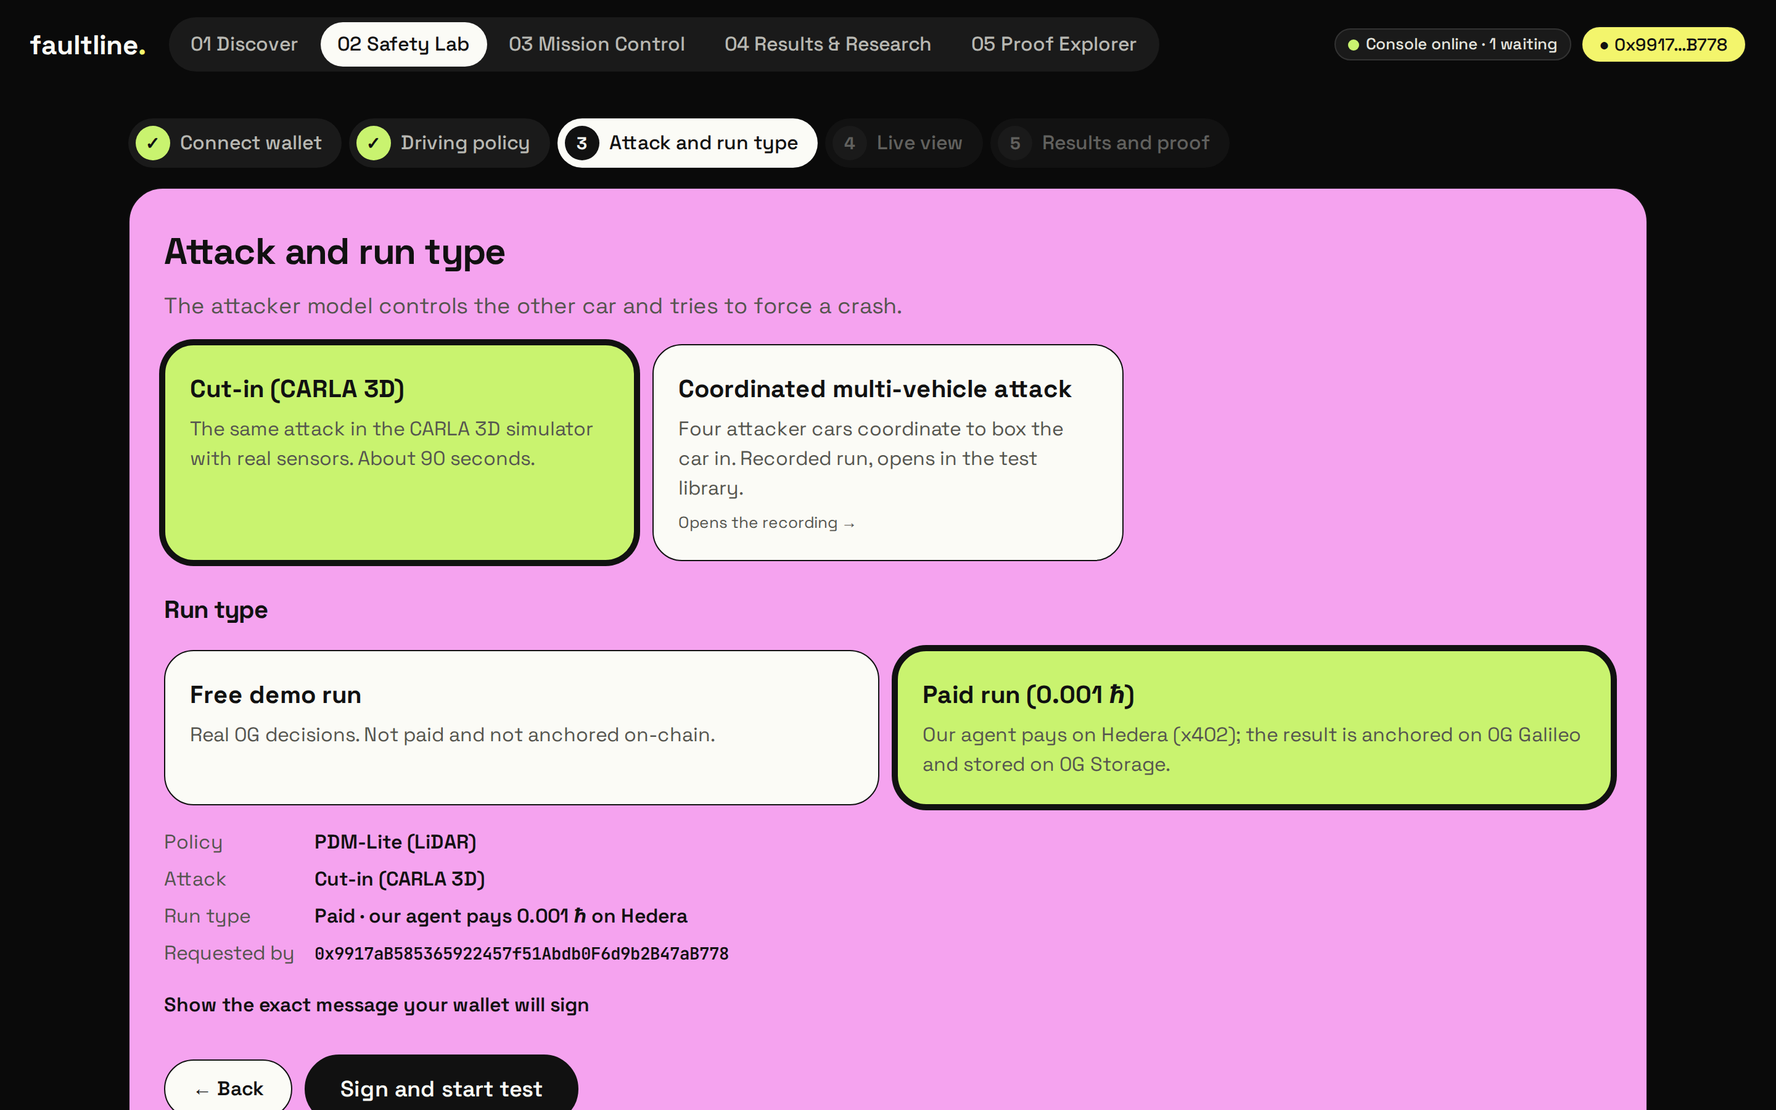
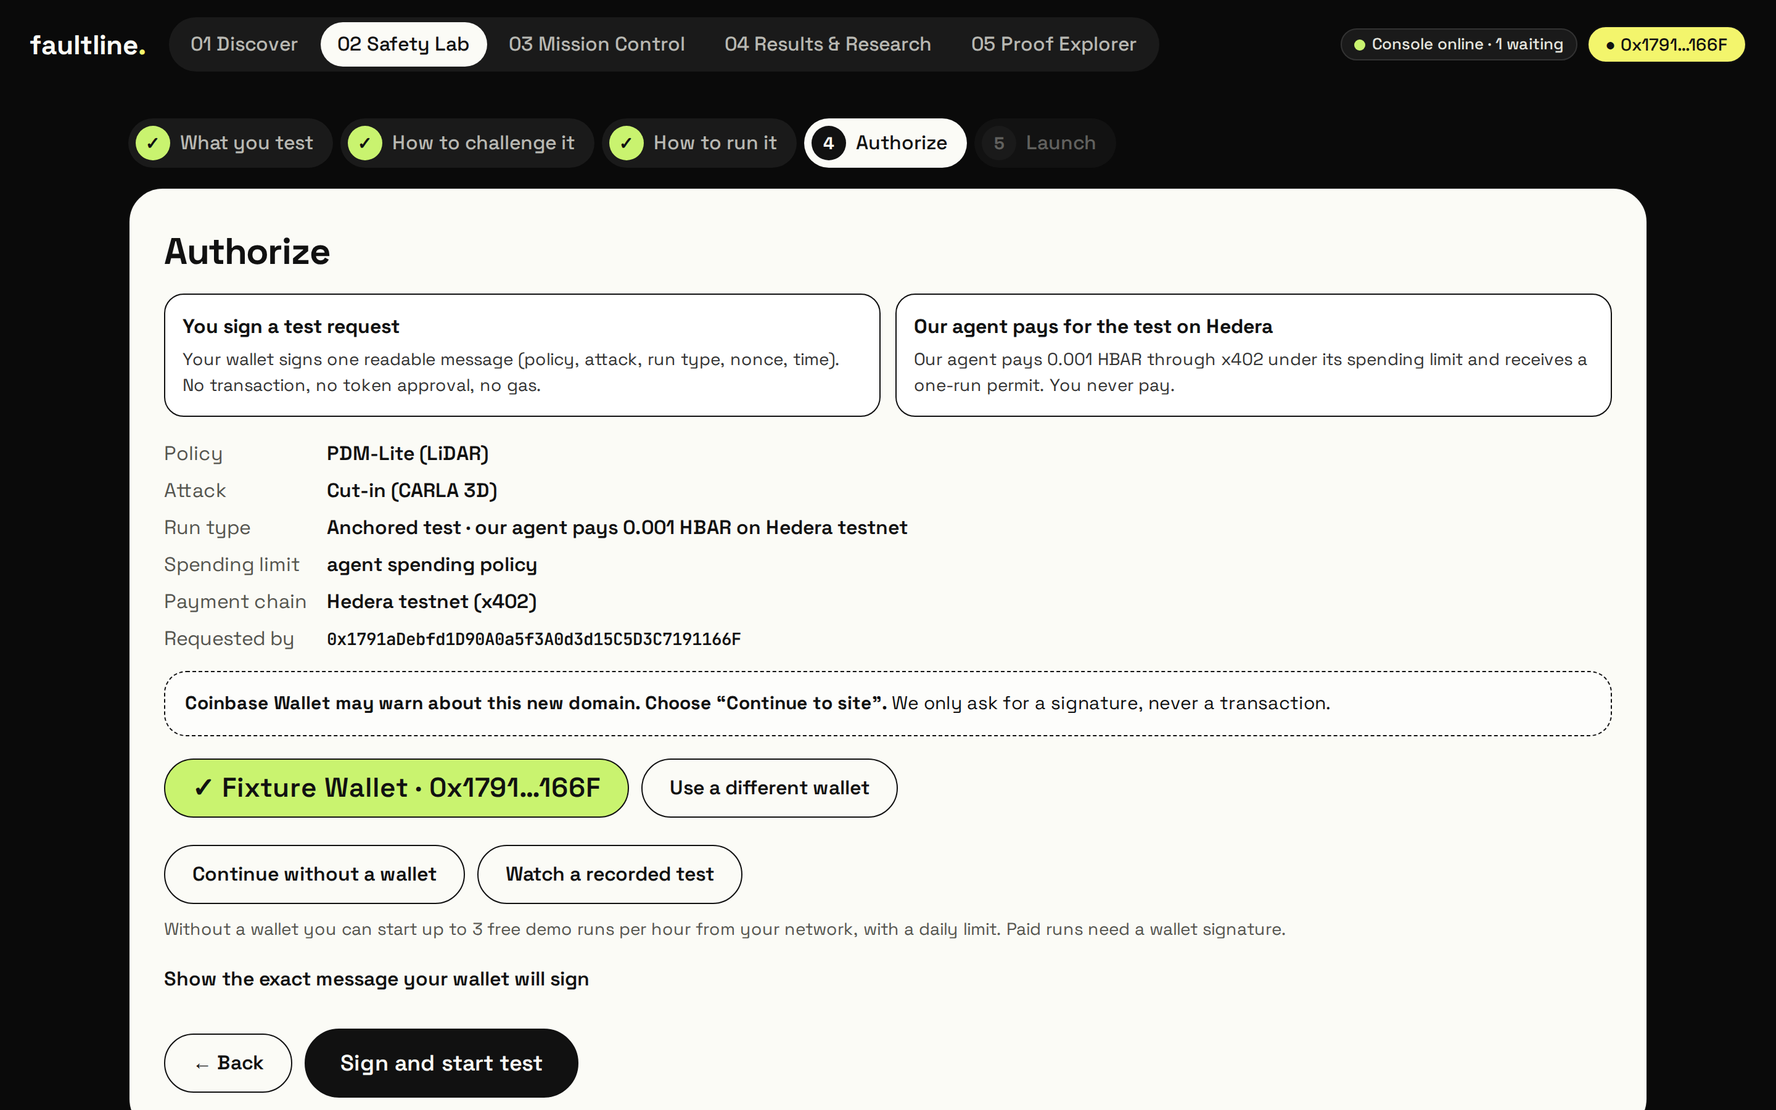
studio: Safety Lab reordered (what you test, how to challenge it, how to run it with a CARLA check, authorize: you sign vs our agent pays), paid-but-unstarted recovery

diff --git a/apps/faultline-studio/src/main.ts b/apps/faultline-studio/src/main.ts
@@ -136,12 +136,11 @@ async function connect(w: { info: WalletInfo, provider: Eip1193 }) {
 }
 function paintWallet() {
   $('wallet-btn').textContent = wallet ? `● ${short(wallet.address, 6, 4)}` : 'Connect wallet'
-  $<HTMLButtonElement>('s1-next').disabled = !wallet && !guest
   $('guest').textContent = guest ? '✓ Continuing without a wallet' : 'Continue without a wallet'
   renderStepper(); renderSummary()
 }
 $('wallet-btn').addEventListener('click', () => {
-  go('/lab'); step(1)
+  go('/lab'); step(4)
   const c = candidates()
   if (!wallet && c.length === 1) connect(c[0]) // still inside the click: the wallet popup needs a user gesture
 })
@@ -150,10 +149,10 @@ const message = (nonce: string, issued: string) => `Faultline test request\npoli
 
 // ---------- guided flow ----------
 let cur = 1, maxStep = 1
-const STEPS = ['Connect wallet', 'Driving policy', 'Attack and run type', 'Live view', 'Results and proof']
+const STEPS = ['What you test', 'How to challenge it', 'How to run it', 'Authorize', 'Launch']
 function renderStepper() {
   $('stepper').innerHTML = STEPS.map((t, i) => {
-    const n = i + 1, can = n <= maxStep && (n < 2 || !!wallet || guest || n >= 4)
+    const n = i + 1, can = n <= maxStep && n <= 4
     return `<li><button class="${n === cur ? 'on' : ''} ${n < maxStep && n !== cur ? 'done' : ''}" data-s="${n}" ${can ? '' : 'disabled'} ${n === cur ? 'aria-current="step"' : ''}><i>${n < maxStep && n !== cur ? '✓' : n}</i><span>${t}</span></button></li>`
   }).join('')
   $('stepper').querySelectorAll<HTMLButtonElement>('[data-s]').forEach((b) => b.addEventListener('click', () => step(Number(b.dataset.s))))
@@ -162,13 +161,13 @@ function step(n: number) {
   if (n < 1) { go('/'); return }
   cur = n; maxStep = Math.max(maxStep, n); save()
   if (location.pathname !== '/lab') history.replaceState(null, '', '/lab')
-  for (let i = 1; i <= 5; i++) $(`s${i}`).classList.toggle('hidden', i !== n)
-  renderStepper(); if (n === 3) renderSummary()
+  for (let i = 1; i <= 4; i++) $(`s${i}`).classList.toggle('hidden', i !== n)
+  renderStepper(); if (n === 4) { renderSummary(); loadPending() }
   window.scrollTo({ top: 0 }); requestAnimationFrame(resizeAll)
 }
 $('s1-next').addEventListener('click', () => step(2))
 $('s2-next').addEventListener('click', () => step(3))
-$('again').addEventListener('click', () => step(2))
+$('s3-next').addEventListener('click', () => { if (mode === 'replay') { go('/library'); return } step(4) })
 
 // Swarm roles: one source, the run's plan.json via /api/showcase (fallback = the same plan text)
 let ROLES: Record<string, string> = { A: 'Lead vehicle, progressive braking', B: 'Front cut-in, block right lane', C: 'Rear cut-in, compress gap', D: 'Rear guard, maintain safe distance' }
@@ -186,12 +185,12 @@ let policies: Policy[] = [
[1 lines of base64/hex data omitted]
   { id: 'idm-cautious', name: 'Cautious IDM', description: '', digest: null, compatible: true, paid: false },
 ]
-let policy = 'pdm-lite', attack = 'cut-in-v1-carla', mode: 'free' | 'paid' = 'free', guest = false
+let policy = 'pdm-lite', attack = 'cut-in-v1-carla', mode: 'free' | 'paid' | 'replay' = 'free', guest = false
 // The flow survives a reload or a wallet warning page: state is saved on every change and restored on load.
 const FKEY = 'faultline.flow'
-function save() { try { localStorage.setItem(FKEY, JSON.stringify({ step: Math.min(cur, 3), policy, attack, mode, guest, wallet: lastTried?.info.rdns ?? null })) } catch { /* private mode */ } }
+function save() { try { localStorage.setItem(FKEY, JSON.stringify({ step: Math.min(cur, 4), policy, attack, mode, guest, wallet: lastTried?.info.rdns ?? null })) } catch { /* private mode */ } }
 function restore(): any { try { return JSON.parse(localStorage.getItem(FKEY) ?? 'null') } catch { return null } }
-$('guest').addEventListener('click', () => { guest = true; wallet = null; mode = 'free'; save(); renderWallets(); paintWallet(); renderChoices(); step(2) })
+$('guest').addEventListener('click', () => { guest = true; wallet = null; mode = 'free'; save(); renderWallets(); paintWallet(); renderChoices(); renderSummary() })
 $('byo').addEventListener('click', () => show('stack'))
 // ---------- your stack: tabs, copy buttons, onboarding request (copied to the clipboard; nothing is sent or stored) ----------
 document.querySelectorAll<HTMLButtonElement>('[data-tab]').forEach((b) => b.addEventListener('click', () => {
@@ -212,7 +211,8 @@ async function loadPolicies() {
 }
 const ATTACKS = [
   { id: 'cut-in-v1-carla', name: 'Cut-in (CARLA 3D)', line: 'The same attack in the CARLA 3D simulator with real sensors. About 90 seconds.', live: true },
-  { id: 'swarm', name: 'Coordinated multi-vehicle attack', line: 'Four attacker cars coordinate to box the car in. Recorded run, opens in the test library.', live: false },
+  { id: 'swarm', name: 'Coordinated multi-vehicle attack', line: 'Four attacker cars coordinate to box the car in. Recorded only, opens in the test library.', live: false },
+  { id: 'lead-brake', name: 'Lead vehicle brakes', line: 'The car ahead brakes hard at a chosen moment. Recorded only (research runs).', live: false },
 ]
 let health: any = null
 function radio(group: string, items: { id: string, html: string, disabled?: boolean }[], sel: string) {
@@ -220,23 +220,27 @@ function radio(group: string, items: { id: string, html: string, disabled?: bool
 }
 function renderChoices() {
   $('policies').innerHTML = radio('pol', policies.map((p) => ({ id: p.id,
-    html: `<b>${esc(p.name.replace(/\s*\(.*\)$/, ''))}</b><span>${esc(PLAIN[p.id] ?? p.description)}</span><small>${p.compatible ? '✓ Passed our compatibility check' : 'Compatibility not checked'}</small>` })), policy)
+    html: `<b>${esc(p.name.replace(/\s*\(.*\)$/, ''))}</b><span>${esc(PLAIN[p.id] ?? p.description)}</span><small>${p.compatible ? '✓ Passed our compatibility check' : 'Compatibility not checked'}</small><span class="iface">interface: Python AVStack · LiDAR + speed · modes: replay, live demo${p.paid !== false ? ', paid anchored test' : ''}</span>` })), policy)
   const carlaDown = health && !health.carla
   $('attacks').innerHTML = radio('atk', ATTACKS.map((a) => ({ id: a.id, disabled: a.id === 'cut-in-v1-carla' && carlaDown,
-    html: `<b>${esc(a.name)}</b><span>${esc(a.line)}</span>${a.id === 'cut-in-v1-carla' && carlaDown ? '<small>CARLA is offline right now</small>' : a.live ? '' : '<small>Opens the recording →</small>'}` })), attack)
+    html: `<b>${esc(a.name)}</b><span>${esc(a.line)}</span>${a.id === 'cut-in-v1-carla' && carlaDown ? '<small>CARLA is offline right now</small>' : a.live ? '' : '<small>Recorded only →</small>'}` })), attack)
   const paidOk = policies.find((p) => p.id === policy)?.paid !== false && !guest
+  const carlaOk = !!health?.carla
+  $('exec-lede').textContent = health ? (carlaOk ? 'CARLA is online: live runs are available.' : 'CARLA is offline right now: live runs are disabled, recorded replays still work.') : 'Checking CARLA availability…'
   $('modes').innerHTML = radio('mode', [
-    { id: 'free', html: '<b>Free demo run</b><span>Real 0G decisions. Not paid and not anchored on-chain.</span>' },
-    { id: 'paid', disabled: !paidOk, html: `<b>Paid run (0.001 ℏ)</b><span>Our agent pays on Hedera (x402); the result is anchored on 0G Galileo and stored on 0G Storage.</span>${paidOk ? '' : guest ? '<small>Paid runs need a wallet signature</small>' : '<small>Paid runs are bound to PDM-Lite</small>'}` },
+    { id: 'replay', html: '<b>Replay a recorded test</b><span>Free, instant. Real recorded runs with every 0G decision.</span>' },
+    { id: 'free', disabled: !carlaOk, html: '<b>Live demo run</b><span>Real 0G decisions in CARLA now. Not paid and not anchored on-chain.</span>' },
+    { id: 'paid', disabled: !paidOk || !carlaOk, html: `<b>Purchase an anchored test (0.001 HBAR)</b><span>Our agent pays on Hedera (x402); the result is anchored on 0G Galileo and stored on 0G Storage.</span>${!paidOk ? (guest ? '<small>Paid runs need a wallet signature</small>' : '<small>Paid runs are bound to PDM-Lite</small>') : ''}` },
   ], mode)
   document.querySelectorAll<HTMLButtonElement>('[data-pol]').forEach((b) => b.addEventListener('click', () => { policy = b.dataset.pol!; if (policies.find((p) => p.id === policy)?.paid === false) mode = 'free'; save(); renderChoices() }))
-  document.querySelectorAll<HTMLButtonElement>('[data-atk]').forEach((b) => b.addEventListener('click', () => { if (b.dataset.atk === 'swarm') { gotoExplore('swarm'); return } attack = b.dataset.atk!; save(); renderChoices() }))
-  document.querySelectorAll<HTMLButtonElement>('[data-mode]').forEach((b) => b.addEventListener('click', () => { mode = b.dataset.mode as 'free' | 'paid'; save(); renderChoices() }))
+  document.querySelectorAll<HTMLButtonElement>('[data-atk]').forEach((b) => b.addEventListener('click', () => { if (b.dataset.atk === 'swarm') { gotoExplore('swarm'); return } if (b.dataset.atk === 'lead-brake') { go('/research'); return } attack = b.dataset.atk!; save(); renderChoices() }))
+  document.querySelectorAll<HTMLButtonElement>('[data-mode]').forEach((b) => b.addEventListener('click', () => { mode = b.dataset.mode as 'free' | 'paid' | 'replay'; save(); renderChoices() }))
   renderSummary()
 }
 function renderSummary() {
   const p = policies.find((x) => x.id === policy), a = ATTACKS.find((x) => x.id === attack)
-  $('summary').innerHTML = kv([['Policy', esc(p?.name ?? policy)], ['Attack', esc(a?.name ?? attack)], ['Run type', mode === 'paid' ? 'Paid · our agent pays 0.001 ℏ on Hedera' : 'Free demo · not paid, not anchored'],
+  $('pay-line').textContent = mode === 'paid' ? 'Our agent pays 0.001 HBAR through x402 under its spending limit and receives a one-run permit. You never pay.' : 'This live demo run is free: nothing is paid and nothing is anchored.'
+  $('summary').innerHTML = kv([['Policy', esc(p?.name ?? policy)], ['Attack', esc(a?.name ?? attack)], ['Run type', mode === 'paid' ? 'Anchored test · our agent pays 0.001 HBAR on Hedera testnet' : 'Live demo · not paid, not anchored'], ...(mode === 'paid' ? [['Spending limit', catalogCap ? `${catalogCap} HBAR per day (agent policy)` : 'agent spending policy'] as [string, string], ['Payment chain', 'Hedera testnet (x402)'] as [string, string]] : []),
     ['Requested by', wallet ? `<code>${esc(wallet.address)}</code>` : guest ? 'Guest (no wallet) · free demo run' : 'connect a wallet first']])
   $('msg-preview').textContent = message('<random nonce>', '<time you click>')
   $<HTMLButtonElement>('start').disabled = (!wallet && !guest) || !online
@@ -262,6 +266,21 @@ $('start').addEventListener('click', async () => {
     go('/mission/' + r.jobId)
   } catch (e) { const m = (e as any)?.code != null ? walletErr(e, 'signature') : `Not started: ${(e as any)?.message ?? e}`; $('start-err').textContent = m } finally { btn.disabled = false }
 })
+
+// ---------- never pay twice: paid jobs whose run never started stay launchable ----------
+let catalogCap: string | null = null
+async function loadPending() {
+  try {
+    const c = await getJson('/api/catalog'); catalogCap = c.cap ? (Number(c.cap) / 1e8).toString() : null
+    const list: any[] = c.pending ?? []
+    $('pending-box').innerHTML = list.length ? `<div class="note"><b>Paid but not started.</b> These tests were paid and not run yet; launch one instead of paying again.${list.map((j) => `<div class="row" style="margin-top:8px"><code>${short(j.jobId, 8, 4)}</code> ${link(j.hashscan, 'payment')} <button class="btn" data-launch="${esc(j.jobId)}">Launch</button></div>`).join('')}</div>` : ''
+    $('pending-box').querySelectorAll<HTMLButtonElement>('[data-launch]').forEach((b) => b.addEventListener('click', async () => {
+      b.disabled = true
+      try { const r = await postJson('/api/launch', { jobId: b.dataset.launch }); go('/mission/' + String(r.run).split('/').map(encodeURIComponent).join('/')) } catch (e) { $('start-err').textContent = (e as Error).message; b.disabled = false }
+    }))
+    renderSummary()
+  } catch { /* console offline */ }
+}
 
 // ---------- live ----------
 let ticks: Tick[] = [], decisions: Decision[] = [], runMeta: Run | null = null, allRuns: Run[] = [], runFree = false
@@ -602,7 +621,7 @@ async function pollHealth() {
 
 // ---------- loop ----------
 function frame() {
-  if (!$('s4').classList.contains('hidden') && !$('v-flow').classList.contains('hidden')) {
+  if (!$('oldlive').classList.contains('hidden') && !$('v-flow').classList.contains('hidden')) {
     const r = ticks.at(-1), now = performance.now()
     drawScene($<HTMLCanvasElement>('scene'), r, ticks.slice(-160), flashAction ? say(flashAction) : '', Math.max(0, (flashUntil - now) / 1200))
     drawTele($<HTMLCanvasElement>('tele'), ticks, decisions)
@@ -610,7 +629,7 @@ function frame() {
   }
   requestAnimationFrame(frame)
 }
-function resizeAll() { if (!$('s5').classList.contains('hidden') && ticks.length) drawResults() }
+function resizeAll() { if (!$('oldres').classList.contains('hidden') && ticks.length) drawResults() }
 window.addEventListener('resize', resizeAll)
 
 async function boot() {
@@ -618,7 +637,7 @@ async function boot() {
   if (st) { policy = st.policy ?? policy; attack = st.attack === 'cut-in-v1-carla' ? st.attack : attack; mode = st.mode === 'paid' ? 'paid' : 'free'; guest = !!st.guest }
   renderWallets(); paintWallet(); renderChoices(); renderStepper()
   if (location.hash === '#run') history.replaceState(null, '', '/lab')
-  cur = Math.max(1, Math.min(3, st?.step ?? 1))
+  cur = Math.max(1, Math.min(4, st?.step ?? 1))
   route()
   // Resume a wallet the user already approved (eth_accounts opens no popup)
   if (st?.wallet != null) setTimeout(async () => {
@@ -668,7 +687,7 @@ function route() {
   const [, a = '', ...rest] = location.pathname.split('/'), b = rest.join('/') // run names can contain '/' (CARLA demo runs)
   const navKey = a === '' ? 'home' : a === 'lab' ? 'flow' : a
   document.querySelectorAll<HTMLAnchorElement>('nav.top a').forEach((x) => x.classList.toggle('on', x.dataset.nav === navKey || ((navKey === 'library' || navKey === 'results') && x.dataset.nav === 'research')))
-  if (a === 'lab') { show('flow'); step(Math.max(1, Math.min(3, cur))) }
+  if (a === 'lab') { show('flow'); step(Math.max(1, Math.min(4, cur))) }
   else if (a === 'mission') { show('mission'); openMission(decodeURIComponent(b || FEATURED)) }
   else if (a === 'verify') { show('verify'); openVerify(decodeURIComponent(b || FEATURED)) }
   else if (a === 'stack') show('stack')

diff --git a/apps/faultline-studio/index.html b/apps/faultline-studio/index.html
@@ -176,6 +176,8 @@
     .reason { padding-left: 20px; display: grid; gap: 10px } .reason li span { display: block } .reason small { display: block; font: 12px var(--mono); color: var(--muted) }
     .claims { display: grid; gap: 8px } .claim { border: 1px solid #ddd; border-radius: 14px; background: #fff } .claim summary { cursor: pointer; padding: 12px 14px; display: flex; justify-content: space-between; gap: 10px; align-items: center; flex-wrap: wrap }
     .claim .body { padding: 0 14px 14px; font-size: 14px } tr.win td { background: #eefbe6 }
+    .auth2 { display: grid; grid-template-columns: 1fr 1fr; gap: 12px; margin-top: 12px } .auth-box { border: 1px solid var(--line); border-radius: 16px; padding: 14px; background: #fff; display: flex; flex-direction: column; gap: 4px }
+    .auth-box span { font-size: 14px; color: #333 } .choice .iface { font: 12px var(--mono); color: var(--muted) }
     .why-line { font-size: 14px; margin-top: 2px } 
     .plan b { display: block; margin-bottom: 8px } .plan ul { list-style: none; padding: 0; margin: 0 0 10px; display: grid; gap: 6px }
     .plan li { display: flex; gap: 8px; align-items: center; font-size: 14px } .plan li i { width: 14px; height: 14px; border-radius: 4px; border: 1.5px solid var(--ink); flex: none }
@@ -264,6 +266,7 @@
       .board { grid-template-columns: 1fr 1fr } .hdr-right #console-pill { display: none }
     }
     @media (max-width: 640px) {
+      .auth2 { grid-template-columns: 1fr }
       .lidar-label { display: none } .split2 { grid-template-columns: 1fr } .hdr-right #console-pill { display: inline-flex } #console-txt { display: none }
       .arow, .arow.four, .arow.two { grid-template-columns: 1fr; width: 100%; gap: 0 } .arow.four .ab + .ab, .arow.two .ab + .ab { margin-top: 8px }
       .ar { flex-direction: row-reverse; justify-content: center; height: 34px; gap: 8px; padding: 0 } .ar i { width: 1.5px; height: 100%; flex: none }
@@ -507,36 +510,46 @@
     <ol class="stepper" id="stepper" aria-label="Test steps"></ol>
 
     <div class="card step" id="s1" data-step="1">
-      <h2>Connect wallet</h2>
-      <p class="lede">Your wallet signs the test request so we know who asked for it. Our agent pays for paid tests on Hedera.</p>
-      <div class="note" style="margin-top:14px"><b>Coinbase Wallet may warn about this new domain. Choose “Continue to site”.</b> We only ask for a signature, never a transaction: no token approvals, transfers or gas. Your progress is saved if the page reloads.</div>
+      <h2>What are you testing?</h2>
+      <p class="lede">The self-driving software that has to survive the attack.</p>
+      <div class="choices" role="radiogroup" aria-label="Driving policy" id="policies"></div>
+      <div class="nav-btns"><button class="btn k" id="s1-next">Next: how to challenge it</button><button class="btn" id="byo">Connect your own stack</button></div>
+    </div>
+
+    <div class="card step hidden" id="s2" data-step="2">
+      <h2>How to challenge it</h2>
+      <p class="lede">The attacker model controls the other traffic and tries to force a crash.</p>
+      <div class="choices three" role="radiogroup" aria-label="Attack" id="attacks"></div>
+      <div id="families"></div>
+      <div class="nav-btns"><button class="btn" data-back>← Back</button><button class="btn k" id="s2-next">Next: how to run it</button></div>
+    </div>
+
+    <div class="card step hidden" id="s3" data-step="3">
+      <h2>How to run it</h2>
+      <p class="lede" id="exec-lede">Live runs need the CARLA server; its status is checked before you can launch.</p>
+      <div class="choices three" role="radiogroup" aria-label="Execution" id="modes"></div>
+      <div class="nav-btns"><button class="btn" data-back>← Back</button><button class="btn k" id="s3-next">Next: authorize</button></div>
+    </div>
+
+    <div class="card step hidden" id="s4" data-step="4">
+      <h2>Authorize</h2>
+      <div class="auth2">
+        <div class="auth-box"><b>You sign a test request</b><span>Your wallet signs one readable message (policy, attack, run type, nonce, time). No transaction, no token approval, no gas.</span></div>
+        <div class="auth-box"><b>Our agent pays for the test on Hedera</b><span id="pay-line">Free demo runs are not paid. Paid runs: our agent pays 0.001 HBAR through x402 under its spending limit and receives a one-run permit.</span></div>
+      </div>
+      <dl class="summary" id="summary"></dl>
+      <div class="note" style="margin-top:14px"><b>Coinbase Wallet may warn about this new domain. Choose “Continue to site”.</b> We only ask for a signature, never a transaction.</div>
       <div class="wallets" id="wallets"></div>
       <div class="err" id="wallet-err" role="alert"></div>
-      <div class="nav-btns"><button class="btn k" id="s1-next" disabled>Next: driving policy</button><button class="btn" id="guest">Continue without a wallet</button><button class="btn" data-goto-explore="runs">Watch a recorded test</button></div>
+      <div class="nav-btns"><button class="btn" id="guest">Continue without a wallet</button><button class="btn" data-goto-explore="runs">Watch a recorded test</button></div>
       <p style="color:var(--muted);font-size:14px;margin:10px 0 0">Without a wallet you can start up to 3 free demo runs per hour from your network, with a daily limit. Paid runs need a wallet signature.</p>
-    </div>
-
-    <div class="card step c hidden" id="s2" data-step="2">
-      <h2>Driving policy</h2>
-      <p class="lede">This is the self-driving software that has to survive the attack.</p>
-      <div class="choices" role="radiogroup" aria-label="Driving policy" id="policies"></div>
-      <div class="nav-btns"><button class="btn" data-back>← Back</button><button class="btn k" id="s2-next">Next: attack and run type</button>
-        <button class="btn" id="byo">Bring your own stack</button></div>
-    </div>
-
-    <div class="card step p hidden" id="s3" data-step="3">
-      <h2>Attack and run type</h2>
-      <p class="lede">The attacker model controls the other car and tries to force a crash.</p>
-      <div class="choices three" role="radiogroup" aria-label="Attack" id="attacks"></div>
-      <h3 style="margin-top:24px;font-size:20px">Run type</h3>
-      <div class="choices" role="radiogroup" aria-label="Run type" id="modes"></div>
-      <dl class="summary" id="summary"></dl>
       <details class="more" style="margin-top:12px"><summary>Show the exact message your wallet will sign</summary><pre class="msg" id="msg-preview"></pre></details>
+      <div id="pending-box"></div>
       <p class="err" id="start-err"></p>
-      <div class="nav-btns"><button class="btn" data-back>← Back</button><button class="btn k big" id="start">Sign &amp; start test</button></div>
+      <div class="nav-btns"><button class="btn" data-back>← Back</button><button class="btn k big" id="start">Sign and launch</button><button class="hidden" id="s1-wallet-next" disabled></button></div>
     </div>
 
-    <div class="step hidden" id="s4" data-step="4">
+    <div class="step hidden" id="oldlive">
       <div class="grid">
         <div class="card statusbar">
           <span class="pill k live" id="live-tag">Starting</span>
@@ -566,7 +579,7 @@
       </div>
     </div>
 
-    <div class="step hidden" id="s5" data-step="5">
+    <div class="step hidden" id="oldres">
       <div class="grid">
         <div class="card verdict" id="verdict"></div>
         <div class="card">
